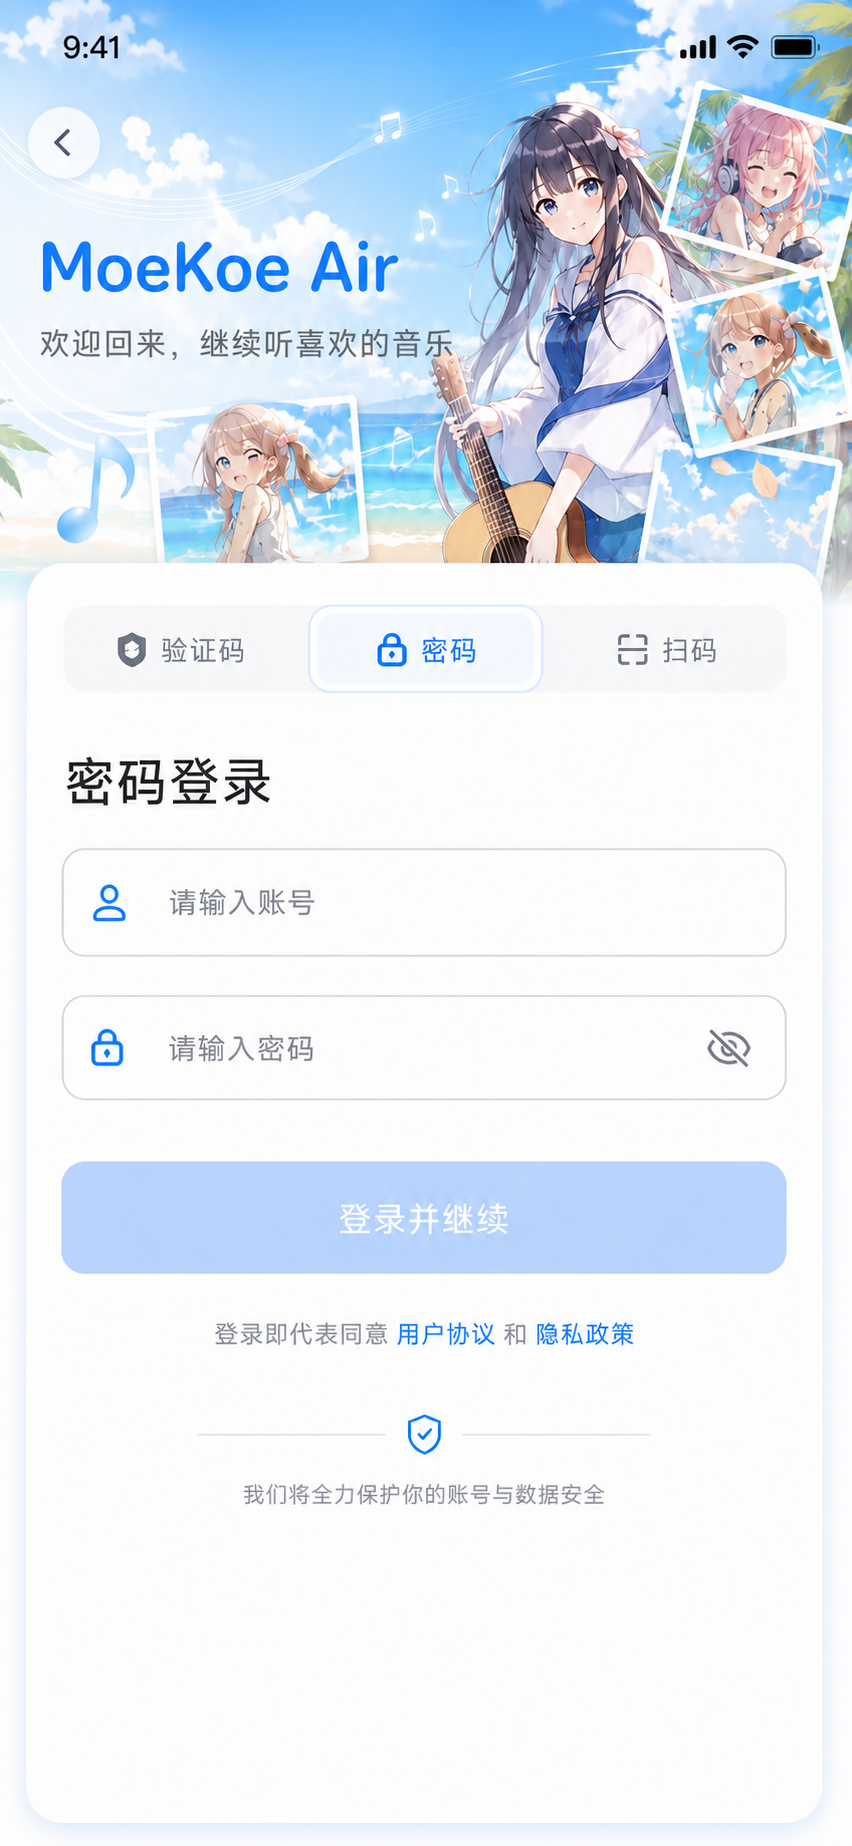
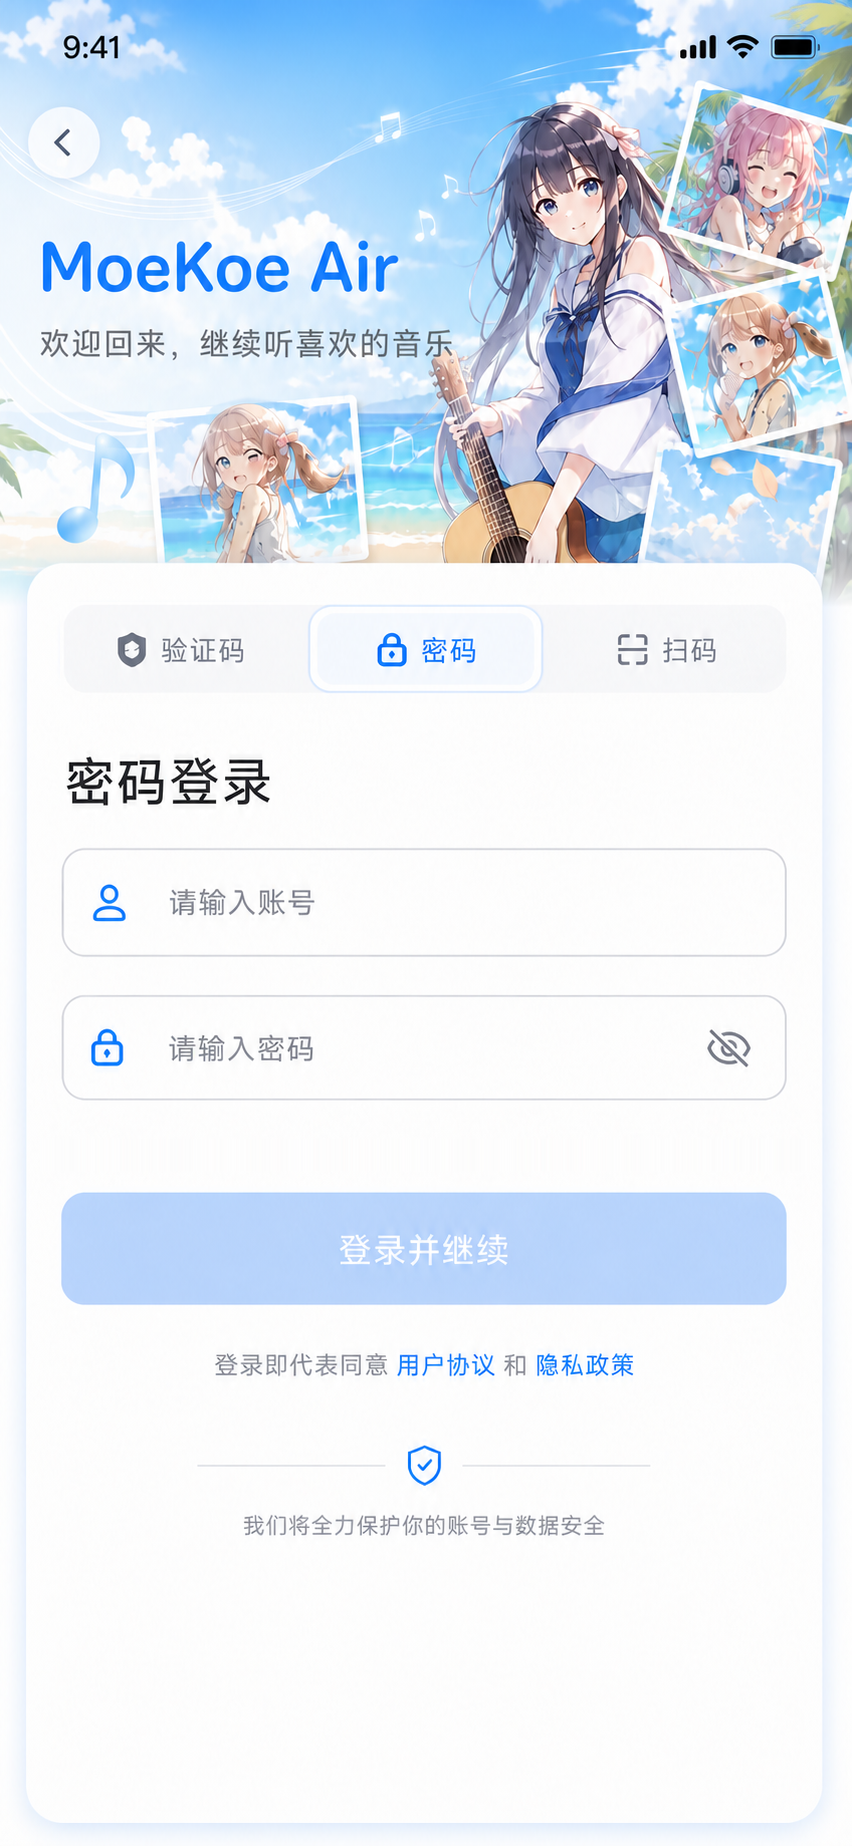
fix(login): align password states and disabled buttons

Changed region(s): [[0.061, 0.6176, 0.946, 0.8337]]

diff --git a/feature/login/src/androidTest/kotlin/cn/james/music/feature/login/LoginScreenAccessibilityTest.kt b/feature/login/src/androidTest/kotlin/cn/james/music/feature/login/LoginScreenAccessibilityTest.kt
@@ -12,6 +12,7 @@ import androidx.compose.ui.Modifier
 import androidx.compose.ui.platform.testTag
 import androidx.compose.ui.semantics.ProgressBarRangeInfo
 import androidx.compose.ui.semantics.Role
+import androidx.compose.ui.semantics.SemanticsActions
 import androidx.compose.ui.semantics.SemanticsProperties
 import androidx.compose.ui.test.SemanticsMatcher
 import androidx.compose.ui.test.assert
@@ -208,6 +209,54 @@ class LoginScreenAccessibilityTest {
     }
 
     @Test
+    fun passwordDesignStatesKeepFixedAnchorsAndZeroScrollRange() {
+        var state by mutableStateOf(LoginUiState(mode = LoginMode.Password))
+        composeRule.setContent {
+            MoeKoeTheme(themeMode = ThemeMode.Light) {
+                Box(Modifier.size(width = 320.dp, height = 694.dp)) { TestLoginScreen(state) }
+            }
+        }
+
+        val initialCardBounds = composeRule.onNodeWithTag(LOGIN_CARD_TAG).getUnclippedBoundsInRoot()
+        val initialIndicatorBounds =
+            composeRule.onNodeWithTag(LOGIN_MODE_INDICATOR_TAG).getUnclippedBoundsInRoot()
+        val initialButtonBounds =
+            composeRule.onNodeWithTag(LOGIN_PRIMARY_BUTTON_TAG).getUnclippedBoundsInRoot()
+        val designStates =
+            listOf(
+                LoginUiState(
+                    mode = LoginMode.Password,
+                    username = "miyu.song@moekoe.com",
+                    password = "fixture-password",
+                    passwordLoggingIn = true,
+                ),
+                LoginUiState(
+                    mode = LoginMode.Password,
+                    username = "miyu.song@moekoe.com",
+                    password = "fixture-password",
+                    notice = LoginNotice.PasswordRejected,
+                ),
+            )
+
+        designStates.forEach { nextState ->
+            composeRule.runOnIdle { state = nextState }
+            composeRule.onNodeWithTag(LOGIN_SCROLL_CONTAINER_TAG).assert(hasNoScrollAction)
+            val cardBounds = composeRule.onNodeWithTag(LOGIN_CARD_TAG).getUnclippedBoundsInRoot()
+            val indicatorBounds =
+                composeRule.onNodeWithTag(LOGIN_MODE_INDICATOR_TAG).getUnclippedBoundsInRoot()
+            val buttonBounds =
+                composeRule.onNodeWithTag(LOGIN_PRIMARY_BUTTON_TAG).getUnclippedBoundsInRoot()
+
+            assertEquals(initialCardBounds.left.value, cardBounds.left.value, 0.5f)
+            assertEquals(initialCardBounds.top.value, cardBounds.top.value, 0.5f)
+            assertEquals(initialIndicatorBounds.left.value, indicatorBounds.left.value, 0.5f)
+            assertEquals(initialIndicatorBounds.top.value, indicatorBounds.top.value, 0.5f)
+            assertEquals(initialButtonBounds.left.value, buttonBounds.left.value, 0.5f)
+            assertEquals(initialButtonBounds.top.value, buttonBounds.top.value, 0.5f)
+        }
+    }
+
+    @Test
     fun mobileFeedbackStatesKeepPrimaryActionAnchored() {
         var state by
             mutableStateOf(
@@ -261,7 +310,7 @@ class LoginScreenAccessibilityTest {
 
         designStates.forEach { nextState ->
             composeRule.runOnIdle { state = nextState }
-            composeRule.onAllNodes(hasScrollAction()).assertCountEquals(0)
+            composeRule.onNodeWithTag(LOGIN_SCROLL_CONTAINER_TAG).assert(hasNoScrollAction)
             val cardBounds = composeRule.onNodeWithTag(LOGIN_CARD_TAG).getUnclippedBoundsInRoot()
             val indicatorBounds =
                 composeRule.onNodeWithTag(LOGIN_MODE_INDICATOR_TAG).getUnclippedBoundsInRoot()
@@ -511,6 +560,11 @@ private val expiredAccountState =
         selectedUserId = "10000002",
         notice = LoginNotice.Failure(AuthError.Rejected),
     )
+
+private val hasNoScrollAction =
+    SemanticsMatcher("does not expose a page scroll action") { node ->
+        !node.config.contains(SemanticsActions.ScrollBy)
+    }
 
 @Composable
 private fun TestLoginScreen(

diff --git a/core/designsystem/src/main/kotlin/cn/james/music/core/designsystem/component/action/MoeButtons.kt b/core/designsystem/src/main/kotlin/cn/james/music/core/designsystem/component/action/MoeButtons.kt
@@ -57,13 +57,13 @@ fun MoeButton(
                     if (loading) {
                         MaterialTheme.colorScheme.primary
                     } else {
-                        MaterialTheme.colorScheme.surfaceContainerHighest
+                        MaterialTheme.colorScheme.primary.copy(alpha = 0.35f)
                     },
                 disabledContentColor =
                     if (loading) {
                         MaterialTheme.colorScheme.onPrimary
                     } else {
-                        MaterialTheme.colorScheme.onSurfaceVariant
+                        MaterialTheme.colorScheme.onPrimary.copy(alpha = 0.82f)
                     },
             ),
         contentPadding = contentPadding,

diff --git a/feature/login/src/main/kotlin/cn/james/music/feature/login/LoginLayoutSpec.kt b/feature/login/src/main/kotlin/cn/james/music/feature/login/LoginLayoutSpec.kt
@@ -141,7 +141,7 @@ internal class LoginFormMetrics(
     val mobileNoticeToButton = layout.dp(8f)
     val passwordNoticeTop = layout.dp(18f)
     val passwordNoticeHeight = layout.dp(42f)
-    val passwordNoticeToButton = layout.dp(32f)
+    val passwordNoticeToButton = layout.dp(31f)
     val primaryButtonHeight = layout.dp(112f)
     val buttonToFooter = layout.dp(44f)
 

diff --git a/docs/design/evidence/login-password-states-2026-08-07.md b/docs/design/evidence/login-password-states-2026-08-07.md
@@ -1,0 +1,60 @@
+# 登录密码三态设计符合度证据
+
+- 日期：2026-08-07
+- 状态：当前实现有效
+- 设计期望：[`19a-password-default.png`](../mockups/candidates/login-v2/19a-password-default.png)、[`19b-password-submitting.png`](../mockups/candidates/login-v2/19b-password-submitting.png)、[`19c-password-rejected.png`](../mockups/candidates/login-v2/19c-password-rejected.png)
+- Compose 状态：密码默认、提交中、凭据错误
+- 基准语境：简体中文、Light、`fontScale = 1.0`、无 IME
+- Preview 视口：`390 × 844dp`，渲染图 `1024 × 2216px`
+- Preview Insets：状态栏、导航栏、cutout 与 IME 均为 `0`
+- 统一归一化：按宽度使用单一系数 `852 / 1024 = 0.83203125`，归一化到 `852 × 1846`
+
+## 人工确认与状态矩阵
+
+2026-08-07 用户确认默认、提交和凭据错误三态统一采用 `y = 1192` 的主按钮顶部锚点，反馈槽始终保留，状态切换不得推动主操作；`19a`、`19b` 已将主操作、协议和安全页脚同步到与 `19c` 相同的纵向基座。用户同时确认 `19a` 的浅蓝 Filled 按钮禁用态可作为全局按钮参考。
+
+| 状态 | 文案 | 按钮状态 | 可变区域 | 固定区域结论 |
+| --- | --- | --- | --- | --- |
+| `19a` 默认 | “登录并继续” | 浅蓝禁用 | 空账号、空密码 | 通过 |
+| `19b` 提交 | “正在安全登录” | 主蓝加载 | 输入值、密码遮罩、进度 | 通过 |
+| `19c` 错误 | “重新登录” | 主蓝启用 | 输入值、错误反馈 | 通过 |
+
+`passwordDesignStatesKeepFixedAnchorsAndZeroScrollRange` 在真机可完整承载的同宽高比 `320 × 694dp` 容器内逐态切换，验证 Card、分段选中块和主按钮锚点不移动，且三态均不暴露滚动动作；绝对坐标由 Preview 归一化叠加证明。
+
+## 固定锚点
+
+下表单位均为归一化后的设计单位。文字、输入值、密码圆点和加载指示不用于固定边界判定。
+
+| 锚点 | 期望 | 实际 | 最大偏差 |
+| --- | --- | --- | --- |
+| 登录 Surface 左侧 / 顶部 | `28 / 566` | `28.4 / 565.8` | `0.4` |
+| 分段控件左侧 / 顶部 / 高度 | `61 / 604 / 90` | `61.2 / 603 / 89.6` | `1` |
+| 账号输入框顶部 | `849` | `849..851` | `2` |
+| 密码输入框顶部 / 底部 | `996 / 1099..1101` | `998 / 1098..1100` | `2` |
+| 三态主按钮顶部 | `1192` | `1194` | `2` |
+| 主按钮底部 | `1304..1305` | `1306` | `2` |
+
+密码反馈槽到按钮的固定间距由 `32` 校准为 `31` 个设计单位，使整枚按钮的顶部和底部同时落入固定边界 `2` 个设计单位的限制。默认、提交和错误切换不改变按钮位置。
+
+## 全局禁用按钮
+
+Filled 主按钮非加载禁用态使用约 `35%` 主色容器与弱化 `onPrimary` 内容，对应 `19a` 的低饱和浅蓝层级；不再使用中性灰容器。加载态仍保持完整主色并显示进度。该规则落在 `MoeButton`，登录、Dialog 和后续消费者共享；Tonal、Outlined、Text 与 Destructive 按钮不受影响。
+
+证据图片：
+
+- [`password-states-overlay-2026-08-07.png`](password-states-overlay-2026-08-07.png)
+- [`password-states-diff-2026-08-07.png`](password-states-diff-2026-08-07.png)
+
+## 遮罩与剩余门禁
+
+- 设计稿中的系统时间、状态栏和导航栏示意不参与 App 像素差异结论。
+- Hero 派生插画只核对裁切、渐变和 Card 覆盖关系，不要求合成像素逐点相同。
+- 字体栅格、动态输入值、密码遮罩和加载进度按契约遮罩；组件边界、锚点、层级和状态颜色不遮罩。
+- 本报告不证明 `19d` 风险确认 Dialog、短信/腾讯验证、扫码、多账号、IME、宽屏或真实账号协议场景完成设计符合度。
+
+## 本轮验证
+
+- `./gradlew :feature:login:testDebugUnitTest`：通过。
+- `./gradlew --no-configuration-cache :core:designsystem:validateDebugScreenshotTest :feature:login:validateDebugScreenshotTest`：Design System 12/12、登录 31/31 通过。
+- `./gradlew :feature:login:connectedDebugAndroidTest`：ELE-AL00 / API 29，15/15 通过。
+- `./gradlew :feature:login:testDebugUnitTest spotlessCheck :core:designsystem:lintDebug :feature:login:lintDebug :app:assembleDebug`：通过。

diff --git a/docs/plans/07-login-flow.md b/docs/plans/07-login-flow.md
@@ -70,6 +70,8 @@
 
 2026-08-07 当前实现复验：手机号验证码默认、发送中、倒计时、已输入与提交中五态已基于公共 Button/TextField 接入后的渲染重新完成归一化叠加，固定边界最大偏差为 `1` 个设计单位；五态共用锚点且基准视口不暴露滚动动作。证据见 [`login-mobile-code-states-2026-08-07.md`](../design/evidence/login-mobile-code-states-2026-08-07.md)。密码、扫码、风险和多账号仍按各自确认稿逐状态验收，不据此标记登录视觉整体完成。
 
+2026-08-07 密码三态复验：用户确认 `19a` 默认、`19b` 提交和 `19c` 凭据错误统一采用 `y = 1192` 主按钮锚点，反馈出现不得推动主操作；三态固定边界最大偏差为 `2` 个设计单位，并通过等比真机容器的零滚动与锚点稳定测试。`19a` 的浅蓝 Filled 禁用态同时登记为全局 `MoeButton` 参考。证据见 [`login-password-states-2026-08-07.md`](../design/evidence/login-password-states-2026-08-07.md)。`19d` 风险 Dialog 与其余登录状态继续独立验收。
+
 ## 验收命令与真机范围
 
 - JVM：`./gradlew :kugou-api:test :data:testDebugUnitTest :feature:login:testDebugUnitTest`

diff --git a/docs/DESIGN_SYSTEM.md b/docs/DESIGN_SYSTEM.md
@@ -22,6 +22,7 @@
 - 歌曲和资产列表主要依靠排版、留白与分隔线建立层级，不将每一项包装成卡片。
 - 所有用户可见文案必须资源化；布局为后续国际化至少预留约 40% 的横向扩展空间。
 - 所有组件必须验证浅色、深色、AMOLED、`1.0×`、`1.5×` 和 `2.0×` 字体。
+- Filled 主按钮禁用态沿用登录 `19a` 的低饱和浅蓝层级：使用约 `35%` 主色容器与弱化 `onPrimary` 内容，不回退为中性灰块；加载态仍保持完整主色，并同时通过进度指示表达不可交互。
 - 公共组件按真实复用判断：至少两个页面具有相同语义、结构和交互，或存在必须全局统一的行为约束；视觉相似、代码相似和一次性页面组合都不是抽取理由。
 - `:core:designsystem` 按 `action`、`input`、`navigation`、`overlay`、`feedback`、`state` 和 `media` 职责组织；公共 API 不接收业务状态或页面布局规格。
 

diff --git a/docs/design/mockups/candidates/login-v2/README.md b/docs/design/mockups/candidates/login-v2/README.md
@@ -29,6 +29,8 @@ Dialog 已于 2026-08-06 按 390dp 参考画布重新校准：普通确认型视
 
 ## 19 · 密码登录
 
+2026-08-07 人工确认：默认、提交和凭据错误三态统一采用 `y = 1192` 的主按钮顶部锚点，反馈槽始终保留，状态切换不得推动主操作。`19a`、`19b` 已同步下移主操作及其后的协议/安全页脚；`19c` 保持原锚点。
+
 - [`19a-password-default.png`](19a-password-default.png)：默认态。
 - [`19b-password-submitting.png`](19b-password-submitting.png)：提交中，字段与操作锁定。
 - [`19c-password-rejected.png`](19c-password-rejected.png)：凭据错误内联显示。
